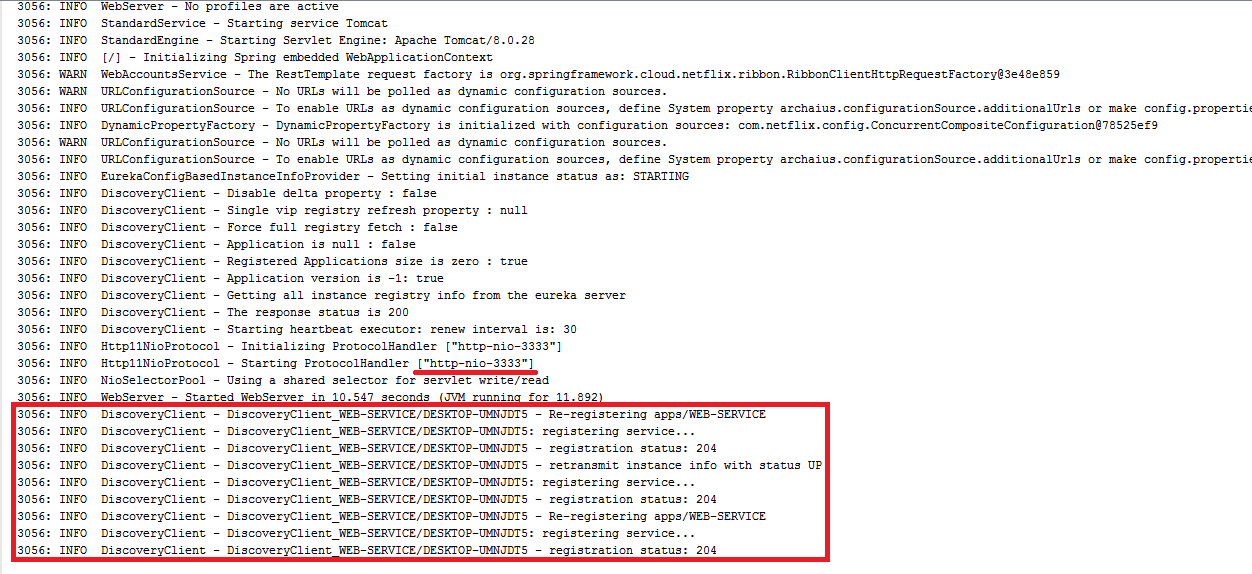
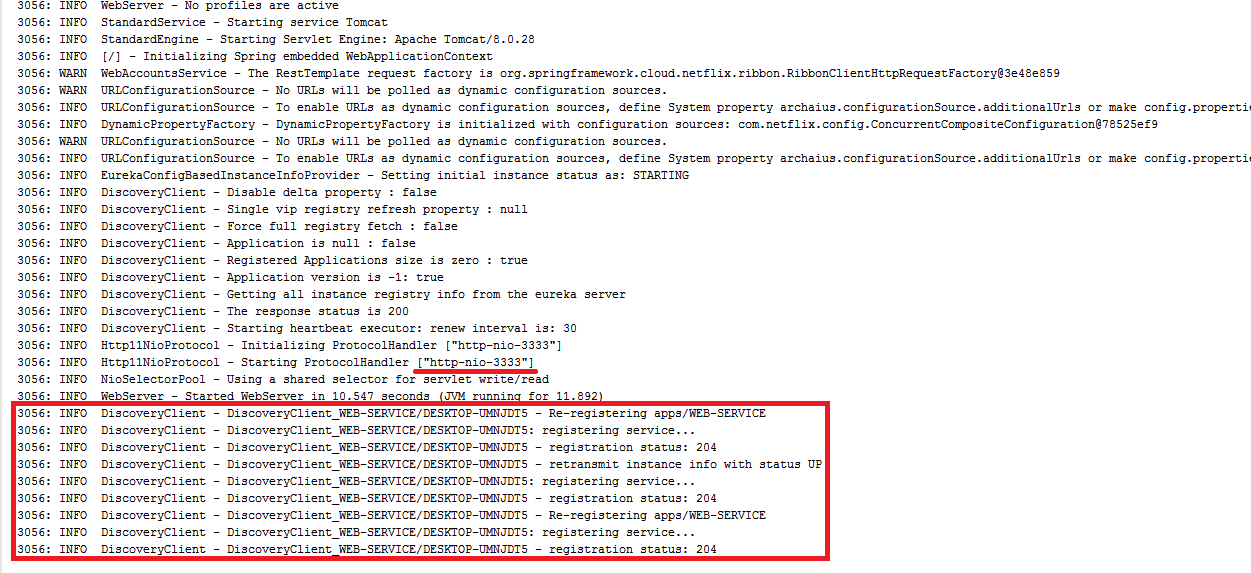
README and screenshots updated

Changed region(s): [[0.0, 0.0, 1.0, 0.9791]]

diff --git a/README.md b/README.md
@@ -12,4 +12,4 @@ Please, go to the [Wiki](https://github.com/UNIZAR-30246-WebEngineering/Laborato
 ![Account Microservice](https://github.com/asabater94/Laboratory-6-microservices/blob/master/3-RegistrationService.png?raw=true)
 
 ##3.- A second account registered
-![Account Microservice](https://github.com/asabater94/Laboratory-6-microservices/blob/master/4-AccountService.png?raw=true)
+![Account Microservice](https://github.com/asabater94/Laboratory-6-microservices/blob/master/4-AccountService2.png?raw=true)
